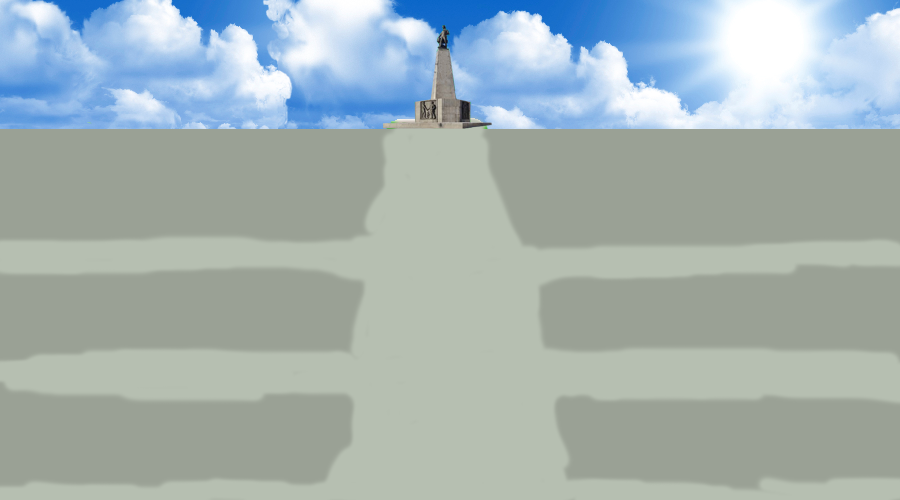
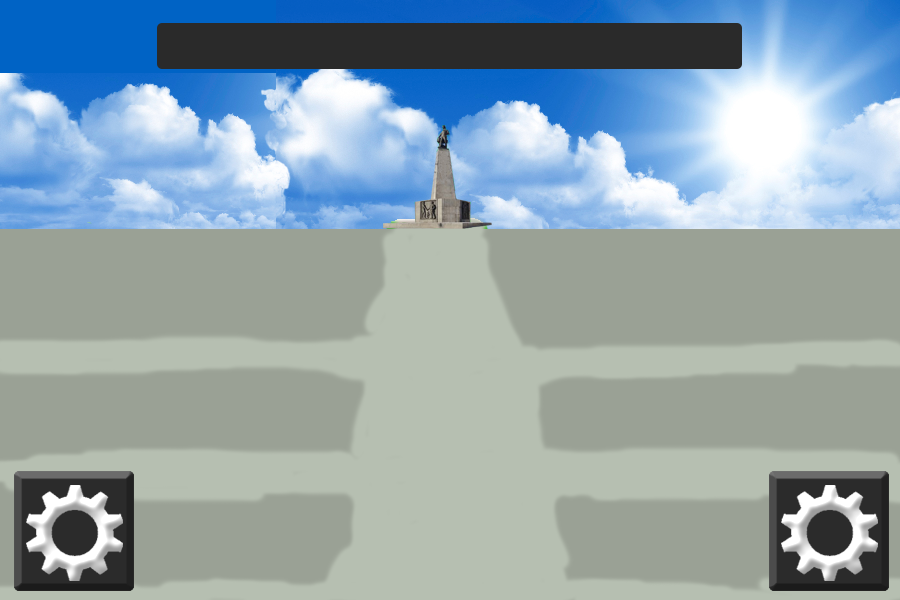
Placeholder background updated

diff --git a/index.html b/index.html
@@ -34,8 +34,8 @@ var mctx;
 	
 var sprites;
 var go;
-var windowWidth;
-var windowHeight;
+var screenWidth;
+var screenHeight;
 	
 /**
 *	Objects
@@ -105,51 +105,6 @@ function initialise(){
 	background.src = "./Images/Backgrounds/background.png";
 }
 
-function generateWorld(){
-	gameBuilding_A = new Building(building_1, 0, 0, 100, 100);
-	
-	/*
-	gameBuilding_B = new Building();
-	gameBuilding_B.init(building_2, 0, 0, 100, 100);
-	
-	gameBuilding_C = new Building();
-	gameBuilding_C.init(building_3, 0, 0, 100, 100);
-	
-	gameBuilding_D = new Building();
-	gameBuilding_D.init(building_4, 0, 0, 100, 100);
-	
-	gameBuilding_bank = new Building();
-	gameBuilding_bank.init(building_bank, 0, 0, 100, 100);
-	*/
-	
-	gameBackground = new Background();
-	gameBackground.init(background, 0, 0);
-	
-	/*
-	var building1 =	new Building();
-	building1.init(building_1, 0, 0, 100, 100);
-	building1.setX(20);
-	sprites.push(building1);
-	
-	var building2 = new Building();
-	building2.init(building_1, 0, 0, 100, 100);
-	building2.setX(100);
-	sprites.push(building2);
-	*/
-	
-	var building1 = createBuilding(building_1, 20, 40);
-	var building2 = createBuilding(building_1, 80, 40);
-	var building3 = createBuilding(building_1, 140, 40);
-}
-
-function createBuilding(img, x, y){
-	building = new Building();
-	building.init(img, x, y, 100, 100);
-	sprites.push(building);
-	return building;
-}
-
-
 function resizeWindow(){
 	var gameArea = document.getElementById('gamearea');
 	var widthToHeight = 2 / 1;
@@ -174,9 +129,54 @@ function resizeWindow(){
 	
     maincanvas.width = newWidth;
     maincanvas.height = newHeight;
+	
+	screenWidth = newWidth;
+	screenHeight = newHeight;
 }
 
+function generateWorld(){
+	gameBuilding_A = new Building(building_1, 0, 0, 100, 100);
+	
+	/*
+	gameBuilding_B = new Building();
+	gameBuilding_B.init(building_2, 0, 0, 100, 100);
+	
+	gameBuilding_C = new Building();
+	gameBuilding_C.init(building_3, 0, 0, 100, 100);
+	
+	gameBuilding_D = new Building();
+	gameBuilding_D.init(building_4, 0, 0, 100, 100);
+	
+	gameBuilding_bank = new Building();
+	gameBuilding_bank.init(building_bank, 0, 0, 100, 100);
+	*/
+	
+	gameBackground = new Background();
+	gameBackground.init(background, 0, 0, screenWidth, screenHeight);
+	
+	/*
+	var building1 =	new Building();
+	building1.init(building_1, 0, 0, 100, 100);
+	building1.setX(20);
+	sprites.push(building1);
+	
+	var building2 = new Building();
+	building2.init(building_1, 0, 0, 100, 100);
+	building2.setX(100);
+	sprites.push(building2);
+	*/
+	
+	var building1 = createBuilding(building_1, 20, 40);
+	var building2 = createBuilding(building_1, 80, 40);
+	var building3 = createBuilding(building_1, 140, 40);
+}
 
+function createBuilding(img, x, y){
+	building = new Building();
+	building.init(img, x, y, 100, 100);
+	sprites.push(building);
+	return building;
+}
 
 function roundSetup(){
 	renderCanvasInterval = setInterval(update, 10);  			// game loop

diff --git a/Objects/objects.js b/Objects/objects.js
@@ -57,7 +57,7 @@ Building.prototype = new GameObject();
 function Background(){
 	this.draw = draw;
 	function draw(){
-		mctx.drawImage(this.img, this.x, this.y);
+		mctx.drawImage(this.img, this.x, this.y, this.width, this.height);
 	}
 }
 Background.prototype = new GameObject();
